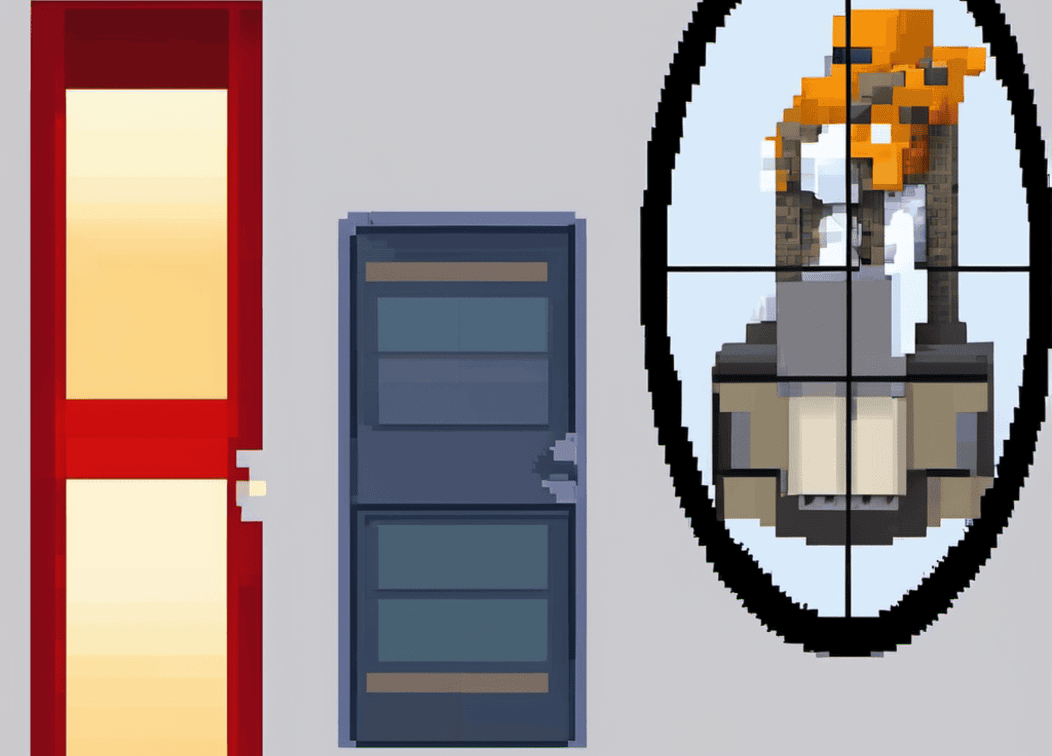
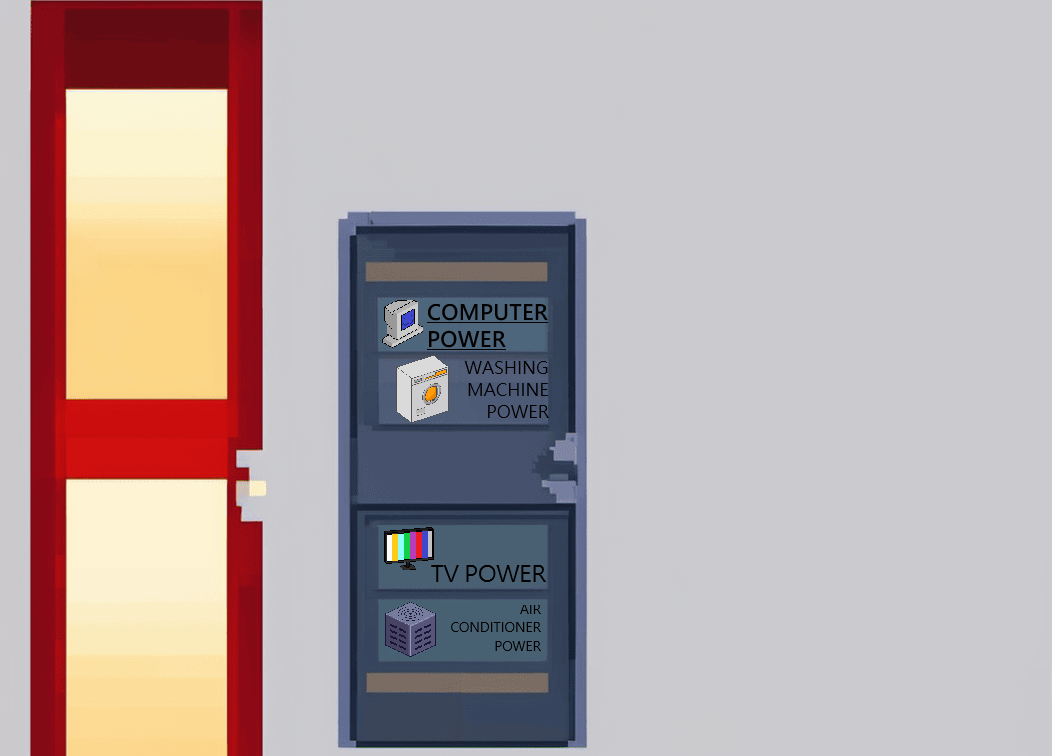
Finished

Changed region(s): [[0.6084, 0.0, 1.0, 0.8823], [0.365, 0.3955, 0.5171, 0.578], [0.365, 0.6997, 0.5171, 0.8823]]

diff --git a/GUI.java b/GUI.java
@@ -4,6 +4,7 @@ import java.awt.*;
 import java.awt.event.ActionEvent;
 import java.awt.event.ActionListener;
 import java.awt.image.BufferedImage;
+import java.awt.image.DataBufferDouble;
 import java.io.File;
 import java.io.FileNotFoundException;
 import java.io.IOException;
@@ -19,18 +20,31 @@ import java.util.Scanner;
 public class GUI implements ActionListener {
 
     // Parts of the GUI
+    //uses a try catch to add photos
+    private BufferedImage green;
+    private BufferedImage red;
+    private BufferedImage yellow;
+    private BufferedImage orange;
+    private BufferedImage black;
+    private BufferedImage window1;
+    private BufferedImage window2;
+    private BufferedImage window3;
+    private BufferedImage window4;
+    private JLabel window;
+    private BufferedImage window5;
     private boolean counter2 = true;
     private JLabel computerEdit;
+    private JLabel usage;
     private JLabel washingEdit;
     private JLabel TVEdit;
     private JLabel ACEdit;
+    private JLabel deviceinfo;
     private JLabel energyText;
-    private JLabel incomeText;
+    private JLabel bar;
     private JFrame frame;
     private BackgroundPanel outside;
     private BackgroundPanel inside;
     private double currentEnergyUsage;
-    private double currentIncome;
     private LinkedList<electronic> electronics;
     private JButton button;
     private JButton button2;
@@ -52,7 +66,8 @@ public class GUI implements ActionListener {
         //Initializes variables.
         this.electronics = electronics;
         this.currentEnergyUsage = getEnergyUsed(electronics);
-        this.currentIncome = getIncome(electronics);
+        getIncome(electronics);
+
 
         //Creates inside JPanel
         inside = new BackgroundPanel(background2);
@@ -74,24 +89,45 @@ public class GUI implements ActionListener {
             JOptionPane.showMessageDialog(null, "Background Image 2 was not found, closing program.", "Error", JOptionPane.ERROR_MESSAGE);
             System.exit(0);
         }
-
+        //Attempts to add the bar above the electric panel
+        try {
+            //reads bar images and saves it to a image object.
+            green = ImageIO.read(new File("HACC-2024-Submission/images/bar_green.png"));
+            yellow = ImageIO.read(new File("HACC-2024-Submission/images/bar_yellow.png"));
+            orange = ImageIO.read(new File("HACC-2024-Submission/images/bar_orange.png"));
+            red = ImageIO.read(new File("HACC-2024-Submission/images/bar_red.png"));
+            black = ImageIO.read(new File("HACC-2024-Submission/images/bar_black.png"));
+        } catch (IOException ioe) {
+            JOptionPane.showMessageDialog(null, "ERROR : Bar image files are missing.", "Error", JOptionPane.ERROR_MESSAGE);
+        }
+        //Attempts to add the factory widows
+        try {
+            //Reads window images and saves it to a image object.
+            window1 = ImageIO.read(new File("HACC-2024-Submission/images/factorywindow.png"));
+            window2 = ImageIO.read(new File("HACC-2024-Submission/images/factorywindow2.png"));
+            window3 = ImageIO.read(new File("HACC-2024-Submission/images/factorywindow3.png"));
+            window4 = ImageIO.read(new File("HACC-2024-Submission/images/factorywindow4.png"));
+            window5 = ImageIO.read(new File("HACC-2024-Submission/images/factorywindow5.png"));
+        } catch (IOException ioe) {
+            JOptionPane.showMessageDialog(null, "ERROR : factorywindow files are missing.", "Error", JOptionPane.ERROR_MESSAGE);
+        }
         //Creates the JFrame for the window.
         frame = new JFrame();
 
         //Creates button 1, adds action listener to make it function.
-        button = new JButton("Increment Computer (0.2 energy usage, 0.08 income)");
+        button = new JButton();
         button.addActionListener(this);
 
         //Creates button 2, adds action listener to make it function.
-        button2 = new JButton("Increment Washing Machine (1 energy usage, 0.42 income)");
+        button2 = new JButton();
         button2.addActionListener(this);
 
         //Creates button 3, adds action listener to make it function.
-        button3 = new JButton("Increment Ceiling Fan (0.075 energy usage, 0.03 income)");
+        button3 = new JButton();
         button3.addActionListener(this);
 
         //Creates button 4, adds action listener to make it function.
-        button4 = new JButton("Increment Air Conditioner (3.5 energy usage, 1.47 income)");
+        button4 = new JButton();
         button4.addActionListener(this);
 
         //Creates button 5, adds action listener to make it function.
@@ -118,7 +154,6 @@ public class GUI implements ActionListener {
 
         //Creates label for energy being used and income gained from it.
         energyText = new JLabel("Energy currently being used : " + currentEnergyUsage);
-        incomeText = new JLabel("Income gained : " + currentIncome);
 
         //Sets up outside
         outside = new BackgroundPanel(background1);
@@ -285,10 +320,21 @@ public class GUI implements ActionListener {
                 if (counter2) {
                     //Sets image up
                     try {
+                        //sets tally to the correct electronic
+                        tally = 0;
                         //Adds image to be displayed.
                         BufferedImage computerPanel = ImageIO.read(new File("HACC-2024-Submission/images/dialougeComputer.png"));
                         computerEdit = new JLabel(new ImageIcon(computerPanel));
                         computerEdit.setBounds(0, 0, 400, 756);
+                        //adds image to be displayed
+                        BufferedImage Icon = ImageIO.read(new File("HACC-2024-Submission/images/cumputor.png"));
+                        JLabel icon = new JLabel(new ImageIcon(Icon));
+                        icon.setBounds(165,50,150,150);
+                        computerEdit.add(icon);
+                        //adds device info
+                        deviceinfo = new JLabel("<html><p style=\"width:100px\">" + "Amount of Energy a unit Consumes : " + electronics.get(tally).getEnergyUsage() +" Amount of Units: " + electronics.get(tally).getAmount() + "</p></html>");
+                        deviceinfo.setBounds(17,15,150,150);
+                        computerEdit.add(deviceinfo);
                     } catch (IOException ex) {
                         JOptionPane.showMessageDialog(null, "ERROR : Computer UI unable to be loaded.", "Error", JOptionPane.ERROR_MESSAGE);
                         System.exit(0);
@@ -309,8 +355,6 @@ public class GUI implements ActionListener {
                     inside.repaint();
                     //sets counter2 to false so the next part of the if statement can happen.
                     counter2 = false;
-                    //sets tally to the correct electronic
-                    tally = 0;
                 } else {
                     //deletes computerEdit JLabel and all related information.
                     inside.remove(computerEdit);
@@ -343,10 +387,21 @@ public class GUI implements ActionListener {
             if (counter2) {
                 //Sets image up
                 try {
-                    //Adds image to be displayed.
-                    BufferedImage WashingPanel = ImageIO.read(new File("HACC-2024-Submission/images/dialougeWashing.png"));
+                    //sets tally to the correct electronic
+                    tally = 1;
+                    //Adds panel
+                    BufferedImage WashingPanel = ImageIO.read(new File("HACC-2024-Submission/images/dialougeWashing1.png"));
                     washingEdit = new JLabel(new ImageIcon(WashingPanel));
                     washingEdit.setBounds(0, 0, 400, 756);
+                    //adds image to be displayed
+                    BufferedImage Icon = ImageIO.read(new File("HACC-2024-Submission/images/Washer.png"));
+                    JLabel icon = new JLabel(new ImageIcon(Icon));
+                    icon.setBounds(165,40,150,150);
+                    washingEdit.add(icon);
+                    //adds device info
+                    deviceinfo = new JLabel("<html><p style=\"width:100px\">" + "Amount of Energy a unit Consumes : " + electronics.get(tally).getEnergyUsage() +" Amount of Units: " + electronics.get(tally).getAmount() + "</p></html>");
+                    deviceinfo.setBounds(17,15,150,150);
+                    washingEdit.add(deviceinfo);
                 } catch (IOException ex) {
                     JOptionPane.showMessageDialog(null, "ERROR : Washing Machine UI unable to be loaded.", "Error", JOptionPane.ERROR_MESSAGE);
                     System.exit(0);
@@ -367,8 +422,6 @@ public class GUI implements ActionListener {
                 inside.repaint();
                 //sets counter2 to false so the next part of the if statement can happen.
                 counter2 = false;
-                //sets tally to the correct electronic
-                tally = 1;
             } else {
                 //deletes washingEdit JLabel and all related information.
                 inside.remove(washingEdit);
@@ -399,10 +452,22 @@ public class GUI implements ActionListener {
             if (counter2) {
                 //Sets image up
                 try {
-                    //Adds image to be displayed.
-                    BufferedImage TVPanel = ImageIO.read(new File("HACC-2024-Submission/images/dialougeWashing.png"));
+                    //sets tally to the correct electronic
+                    tally = 2;
+                    //Adds panel
+                    BufferedImage TVPanel = ImageIO.read(new File("HACC-2024-Submission/images/dialougeWashing3.png"));
+                    //adds labels to show panel and image
                     TVEdit = new JLabel(new ImageIcon(TVPanel));
                     TVEdit.setBounds(0, 0, 400, 756);
+                    //adds image to be displayed
+                    BufferedImage Icon = ImageIO.read(new File("HACC-2024-Submission/images/TV.png"));
+                    JLabel icon = new JLabel(new ImageIcon(Icon));
+                    icon.setBounds(165,50,150,150);
+                    TVEdit.add(icon);
+                    //adds device info
+                    deviceinfo = new JLabel("<html><p style=\"width:100px\">" + "Amount of Energy a unit Consumes : " + electronics.get(tally).getEnergyUsage() +" Amount of Units: " + electronics.get(tally).getAmount() + "</p></html>");
+                    deviceinfo.setBounds(17,15,150,150);
+                    TVEdit.add(deviceinfo);
                 } catch (IOException ex) {
                     JOptionPane.showMessageDialog(null, "ERROR : TV UI unable to be loaded.", "Error", JOptionPane.ERROR_MESSAGE);
                     System.exit(0);
@@ -423,8 +488,6 @@ public class GUI implements ActionListener {
                 inside.repaint();
                 //sets counter2 to false so the next part of the if statement can happen.
                 counter2 = false;
-                //sets tally to the correct electronic
-                tally = 2;
             } else {
                 //deletes washingEdit JLabel and all related information.
                 inside.remove(TVEdit);
@@ -452,17 +515,26 @@ public class GUI implements ActionListener {
                 inside.repaint();
                 //sets counter2 to true so the computerEdit gui gets reset and can be retriggered.
                 counter2=true;
-                //sets tally to the correct electronic
-                tally = 1;
             }
         } else if (e.getSource() == button4) {
             if (counter2) {
                 //Sets image up
                 try {
-                    //Adds image to be displayed.
-                    BufferedImage ACPanel = ImageIO.read(new File("HACC-2024-Submission/images/dialougeWashing.png"));
+                    //sets tally to the correct electronic
+                    tally = 3;
+                    //Adds panel
+                    BufferedImage ACPanel = ImageIO.read(new File("HACC-2024-Submission/images/dialougeWashing4.1.png"));
                     ACEdit = new JLabel(new ImageIcon(ACPanel));
+                    //adds image to be displayed
+                    BufferedImage Icon = ImageIO.read(new File("HACC-2024-Submission/images/AC Unit.png"));
+                    JLabel icon = new JLabel(new ImageIcon(Icon));
+                    icon.setBounds(165,50,150,150);
+                    ACEdit.add(icon);
                     ACEdit.setBounds(0, 0, 400, 756);
+                    //adds device info
+                    deviceinfo = new JLabel("<html><p style=\"width:100px\">" + "Amount of Energy a unit Consumes : " + electronics.get(tally).getEnergyUsage() +" Amount of Units: " + electronics.get(tally).getAmount() + "</p></html>");
+                    deviceinfo.setBounds(17,15,150,150);
+                    ACEdit.add(deviceinfo);
                 } catch (IOException ex) {
                     JOptionPane.showMessageDialog(null, "ERROR : AC UI unable to be loaded.", "Error", JOptionPane.ERROR_MESSAGE);
                     System.exit(0);
@@ -483,8 +555,6 @@ public class GUI implements ActionListener {
                 inside.repaint();
                 //sets counter2 to false so the next part of the if statement can happen.
                 counter2 = false;
-                //sets tally to the correct electronic
-                tally = 4;
             } else {
                 //deletes washingEdit JLabel and all related information.
                 inside.remove(ACEdit);
@@ -552,6 +622,25 @@ public class GUI implements ActionListener {
                 button4.setContentAreaFilled(false);
                 button4.setBorderPainted(false);
                 inside.add(button4);
+                //Creates the image of the window based off background.
+                window = new JLabel(new ImageIcon(window1));
+                window.setBounds(600,0,455,755);
+                inside.add(window);
+                //Creates the bar.
+                //uses a try catch incase bar image is missing
+                try {
+                    BufferedImage barImage = ImageIO.read(new File("HACC-2024-Submission/images/bar_green.png"));
+                    bar = new JLabel(new ImageIcon(barImage));
+                    bar.setBounds(350,30,50,117);
+                } catch (IOException ex) {
+                    JOptionPane.showMessageDialog(null, "ERROR : Could not find Green bar image.", "Error", JOptionPane.ERROR_MESSAGE);
+                }
+                //adds to inside JPanel
+                inside.add(bar);
+                //Adds text to show amount of power being consumed
+                usage = new JLabel("Power being used : " + getEnergyUsed(electronics));
+                usage.setBounds(400,30,150,50);
+                inside.add(usage);
 //                //Adds button 5 to go back outside.
 //                inside.add(button5);
                 //Removes panel to start inside procedure
@@ -582,8 +671,8 @@ public class GUI implements ActionListener {
             //Updates Energy Usage and Income
             currentEnergyUsage = getEnergyUsed(electronics);
             energyText.setText("Energy currently being used : " + currentEnergyUsage);
-            currentIncome = getIncome(electronics);
-            incomeText.setText("Income currently being gained : " + currentIncome);
+            //Updates the bar.
+            barupdate(getEnergyUsed(electronics));
         } else if (e.getSource() == button7) {
             //Makes a variable to store user input
             double convertedAmount = electronics.get(tally).getAmount();
@@ -602,8 +691,38 @@ public class GUI implements ActionListener {
             //Updates energy usage and Income
             currentEnergyUsage = getEnergyUsed(electronics);
             energyText.setText("Energy currently being used : " + currentEnergyUsage);
-            currentIncome = getIncome(electronics);
-            incomeText.setText("Income currently being gained : " + currentIncome);
+            //updates the bar.
+            barupdate(getEnergyUsed(electronics));
         }
+    }
+
+    /**
+     * Updates the bar displayed inside the energy shack.
+     *
+     * @param energy is amount of energy being used.
+     */
+    public void barupdate(double energy) {
+        if (energy >= 0) {
+            bar.setIcon(new ImageIcon(green));
+            window.setIcon(new ImageIcon(window1));
+            if (energy >= 250) {
+                bar.setIcon(new ImageIcon(yellow));
+                window.setIcon(new ImageIcon(window2));
+                if (energy >= 500) {
+                    bar.setIcon(new ImageIcon(orange));
+                    window.setIcon(new ImageIcon(window3));
+                    if (energy >= 750) {
+                        bar.setIcon(new ImageIcon(red));
+                        window.setIcon(new ImageIcon(window4));
+                        if (energy >= 1000) {
+                            bar.setIcon(new ImageIcon(black));
+                            window.setIcon(new ImageIcon(window5));
+                        }
+                    }
+                }
+            }
+        }
+        deviceinfo.setText("<html><p style=\"width:100px\">" + "Amount of Energy a unit Consumes : " + electronics.get(tally).getEnergyUsage() +" Amount of Units: " + electronics.get(tally).getAmount() + "</p></html>");
+        usage.setText("Power being used : " + getEnergyUsed(electronics));
     }
 }
